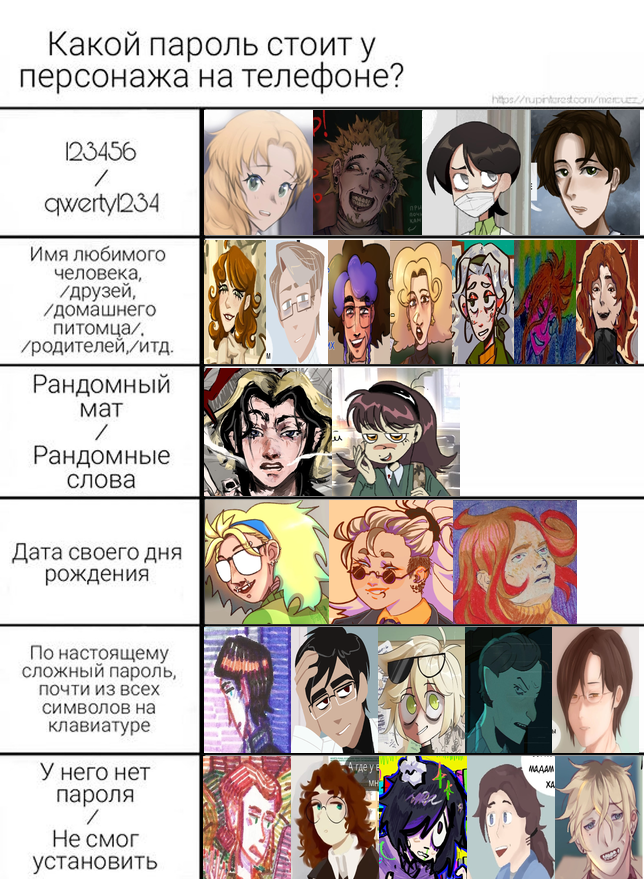
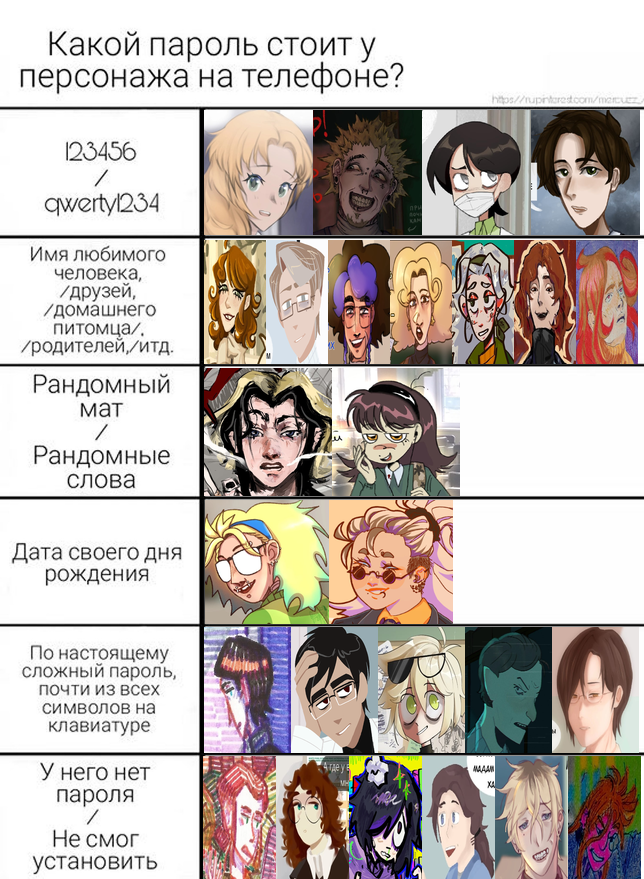
duplicating characters is available

Changed region(s): [[0.3106, 0.8601, 1.0, 1.0], [0.7764, 0.2457, 0.9938, 0.43], [0.6832, 0.5529, 0.9006, 0.7372]]

diff --git a/main.py b/main.py
@@ -64,10 +64,18 @@ def create_mem_window():
             elif event.type == pygame.MOUSEBUTTONDOWN:
                 for btn in oc_btns:
                     if btn.check_mouse(mouse):
-                        btn.grabbed = True
-                        btn.d_x = mouse[0] - btn.coords[0]
-                        btn.d_y = mouse[1] - btn.coords[1]
-                        break
+                        if event.button == 1:  # левый клик
+                            btn.grabbed = True
+                            btn.d_x = mouse[0] - btn.coords[0]
+                            btn.d_y = mouse[1] - btn.coords[1]
+                            break
+                        elif event.button == 3:  # правый клик
+                            if btn.duplicate:
+                                oc_btns.remove(btn)
+                            else:
+                                ind = oc_btns.index(btn) + 1
+                                oc_btns.insert(ind, btn.create_copy())
+                                
                 else:
                     if newpic: 
                         area_selection = True

diff --git a/classes/buttons.py b/classes/buttons.py
@@ -66,15 +66,17 @@ class TagButton(Button):
 
 
 class OcButton(Button):
-    def __init__(self, name, oc_id):
+    def __init__(self, name, oc_id, duplicate=False):
+        self.img_name = name
         self.orig = load_image(name)
         self.id = oc_id
         self.current = self.orig
         self.size = self.current.get_size()
         self.coords = (0, 0)
-        self.grabbed = False
         self.d_x = 0
         self.d_y = 0
+        self.grabbed = False
+        self.duplicate = duplicate
         self.inside_a_meme = False
 
     def move(self, btns, areas):
@@ -98,6 +100,10 @@ class OcButton(Button):
             self.current = surface_antialias_resize(self.orig, size, self.orig.get_size())
             # self.current = surface_normal_resize(self.orig, size, self.size)
             self.size = size
+            
+    def create_copy(self):
+        return OcButton(self.img_name, self.id, duplicate=True)
+        
 
             
             
